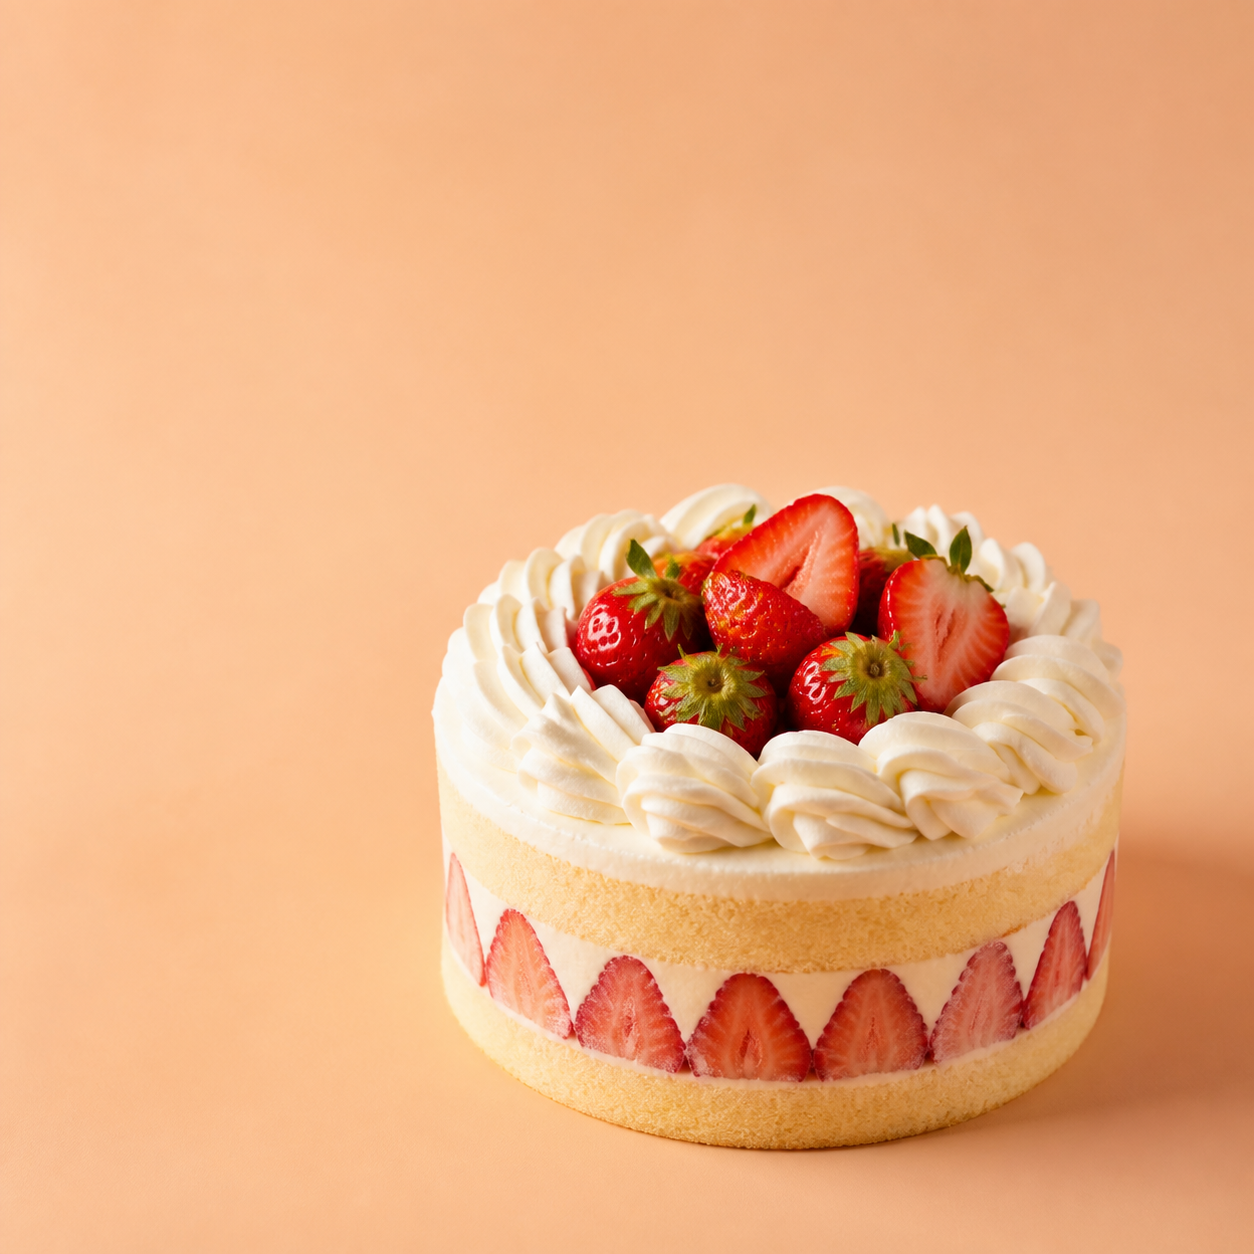
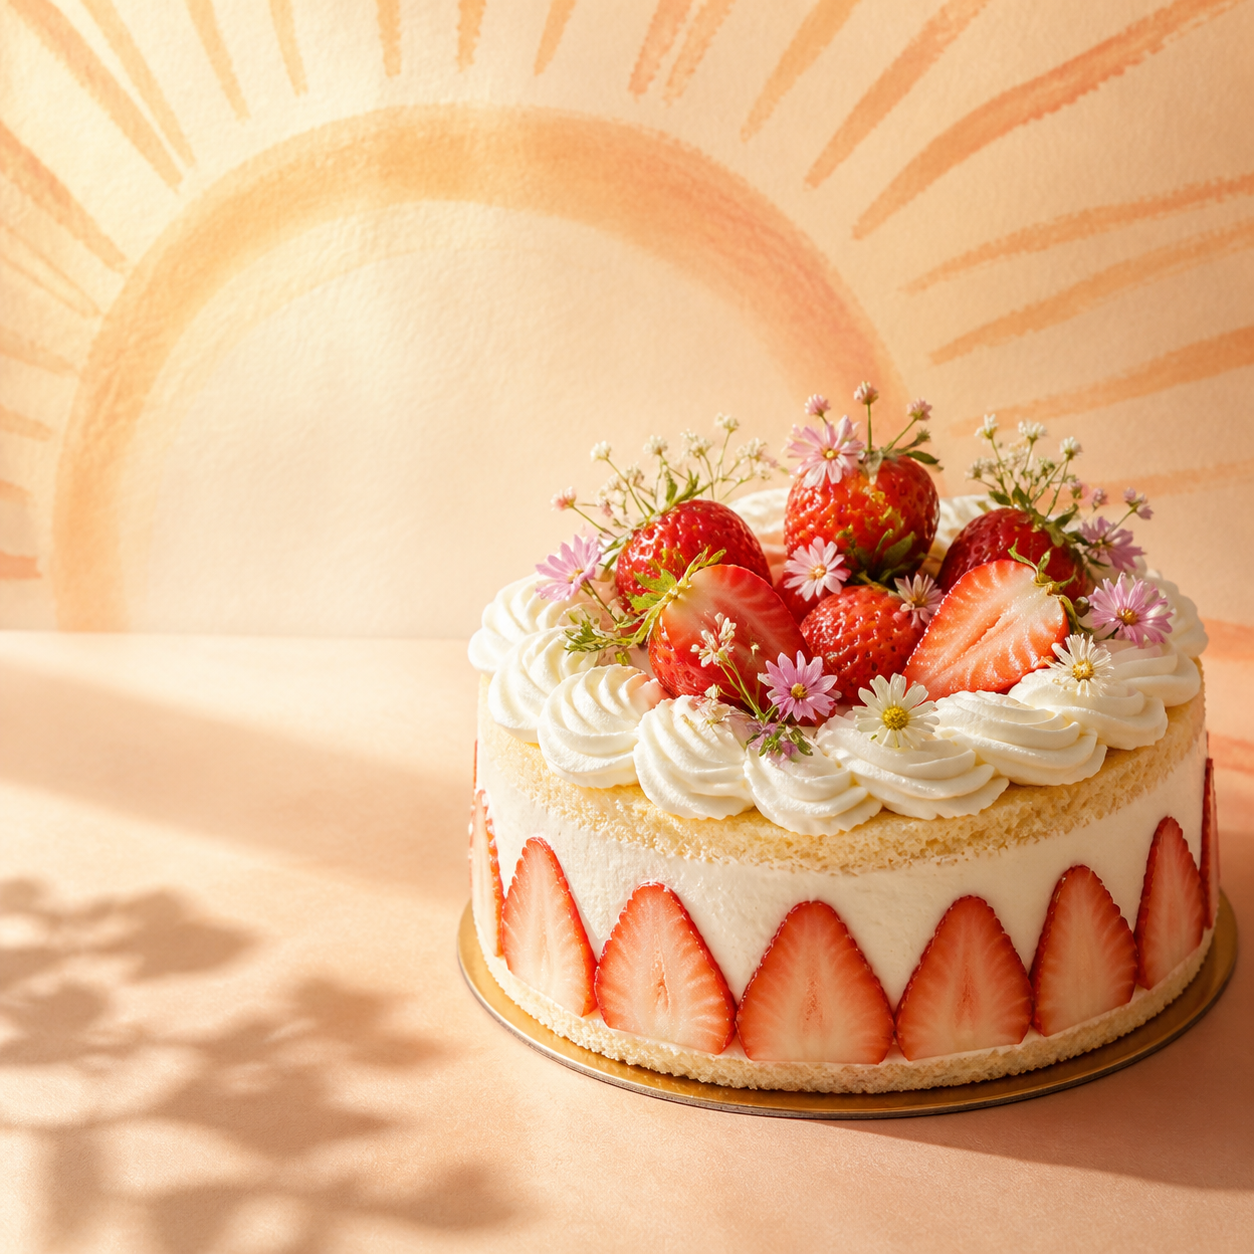
fix: polish hero and resilient catalogue imagery

diff --git a/frontend/js/catalog-fallback.js b/frontend/js/catalog-fallback.js
@@ -1,0 +1,15 @@
+// ponytail: this tiny read-only snapshot keeps the catalogue usable when the local Worker is stopped.
+export const fallbackProducts = [
+  { id: 'prod_strawberry_cloud', slug: 'strawberry-cloud', name: 'Strawberry Cloud Cake', description: 'Vanilla sponge, whipped cream and bright strawberries for a soft little celebration.', category: 'Cakes', price_cents: 14800, stock: 12 },
+  { id: 'prod_chocolate_fudge', slug: 'chocolate-fudge', name: 'Midnight Fudge Cake', description: 'A rich chocolate crumb with silky ganache and a gentle sea-salt finish.', category: 'Cakes', price_cents: 16800, stock: 9 },
+  { id: 'prod_lemon_tart', slug: 'lemon-tart', name: 'Lemon Meringue Tart', description: 'Buttery shortcrust, sharp lemon curd and a cloud of toasted meringue.', category: 'Cakes', price_cents: 12800, stock: 8 },
+  { id: 'prod_butter_croissant', slug: 'butter-croissant', name: 'Butter Croissant', description: 'Flaky, golden layers made with cultured butter and a slow overnight proof.', category: 'Pastries', price_cents: 900, stock: 30 },
+  { id: 'prod_strawberry_danish', slug: 'strawberry-danish', name: 'Strawberry Danish', description: 'Laminated pastry, vanilla cream and a jewel-bright strawberry centre.', category: 'Pastries', price_cents: 1200, stock: 22 },
+  { id: 'prod_cinnamon_roll', slug: 'cinnamon-roll', name: 'Cinnamon Morning Roll', description: 'Soft spiral dough with brown sugar, cinnamon and a little cream cheese glaze.', category: 'Pastries', price_cents: 1100, stock: 24 },
+  { id: 'prod_sea_salt_cookie', slug: 'sea-salt-cookie', name: 'Sea Salt Chocolate Cookie', description: 'Crisp edges, a soft middle and dark chocolate puddles with flaky sea salt.', category: 'Cookies', price_cents: 850, stock: 40 },
+  { id: 'prod_brown_butter_cookie', slug: 'brown-butter-cookie', name: 'Brown Butter Cookie', description: 'Toasty brown butter, roasted pecans and a warm vanilla crumb.', category: 'Cookies', price_cents: 850, stock: 35 },
+  { id: 'prod_pistachio_cookie', slug: 'pistachio-cookie', name: 'Pistachio Shortbread', description: 'Tender shortbread with roasted pistachio and a clean, buttery snap.', category: 'Cookies', price_cents: 950, stock: 28 },
+  { id: 'prod_truffle_box', slug: 'truffle-box', name: 'Petit Truffle Box', description: 'Six glossy chocolate truffles with ganache centres and tiny finishing salts.', category: 'Chocolates', price_cents: 2200, stock: 18 },
+  { id: 'prod_dark_bark', slug: 'dark-bark', name: 'Almond Dark Bark', description: 'Snappy dark chocolate scattered with toasted almonds and dried fruit.', category: 'Chocolates', price_cents: 1800, stock: 16 },
+  { id: 'prod_caramel_bonbon', slug: 'caramel-bonbon', name: 'Salted Caramel Bonbons', description: 'Glossy milk chocolate shells hiding a soft salted caramel centre.', category: 'Chocolates', price_cents: 2400, stock: 14 }
+]

diff --git a/frontend/index.html b/frontend/index.html
@@ -31,10 +31,10 @@
   <section class="pb-section" aria-labelledby="categories-title">
     <div class="pb-section-head"><div><span class="pb-kicker">Pick a mood</span><h2 id="categories-title" class="pb-display">Our categories</h2></div><p>Find something soft, crisp, gooey or deeply chocolatey. Every item is stocked in the learning API.</p></div>
     <div class="pb-category-grid">
-      <a class="pb-category" href="/products/?category=Cakes"><strong>Cakes</strong><img src="/assets/images/products/strawberry-cloud.png" alt="Strawberry cake"></a>
-      <a class="pb-category" href="/products/?category=Pastries"><strong>Pastries</strong><img src="/assets/images/products/butter-croissant.png" alt="Butter croissant"></a>
-      <a class="pb-category" href="/products/?category=Cookies"><strong>Cookies</strong><img src="/assets/images/products/sea-salt-cookie.png" alt="Chocolate cookie"></a>
-      <a class="pb-category" href="/products/?category=Chocolates"><strong>Chocolates</strong><img src="/assets/images/products/truffle-box.png" alt="Chocolate truffles"></a>
+      <a class="pb-category" href="/products/?category=Cakes"><strong>Cakes</strong><img src="/assets/images/products/category-cake-cutout.png" alt="Strawberry cake"></a>
+      <a class="pb-category" href="/products/?category=Pastries"><strong>Pastries</strong><img src="/assets/images/products/category-croissant-cutout.png" alt="Butter croissant"></a>
+      <a class="pb-category" href="/products/?category=Cookies"><strong>Cookies</strong><img src="/assets/images/products/category-cookie-cutout.png" alt="Chocolate cookie"></a>
+      <a class="pb-category" href="/products/?category=Chocolates"><strong>Chocolates</strong><img src="/assets/images/products/category-truffle-cutout.png" alt="Chocolate truffles"></a>
     </div>
   </section>
 

diff --git a/frontend/js/api.js b/frontend/js/api.js
@@ -1,15 +1,31 @@
+import { fallbackProducts } from './catalog-fallback.js'
+
 const cfg = window.APP_CONFIG || {}
 const API_BASE = String(cfg.API_BASE || '').replace(/\/$/, '')
+
+function localFallback(path) {
+  if (path === '/api/products') return { products: fallbackProducts }
+  const match = path.match(/^\/api\/products\/([^/]+)$/)
+  const product = match && fallbackProducts.find((item) => item.id === decodeURIComponent(match[1]))
+  return product ? { product } : null
+}
 
 export async function api(path, options = {}) {
   const headers = new Headers(options.headers || {})
   if (options.body && !headers.has('Content-Type')) headers.set('Content-Type', 'application/json')
 
-  const response = await fetch(`${API_BASE}${path}`, {
-    ...options,
-    headers,
-    credentials: 'include'
-  })
+  let response
+  try {
+    response = await fetch(`${API_BASE}${path}`, {
+      ...options,
+      headers,
+      credentials: 'include'
+    })
+  } catch (error) {
+    const fallback = localFallback(path)
+    if (fallback && (!options.method || options.method === 'GET')) return fallback
+    throw error
+  }
 
   let data = null
   try { data = await response.json() } catch { data = null }

diff --git a/frontend/styles.css b/frontend/styles.css
@@ -49,7 +49,8 @@ button, input, select { font: inherit; }
 .pb-category:nth-child(3) { background: #e78d4f; }
 .pb-category:nth-child(4) { background: #c9713e; }
 .pb-category strong { position: relative; z-index: 1; display: block; font-size: 1.2rem; }
-.pb-category img { position: absolute; right: -8px; bottom: -16px; width: 75%; height: 95%; object-fit: contain; mix-blend-mode: multiply; transform: rotate(-8deg); }
+.pb-category img { position: absolute; right: -2%; bottom: -10%; width: 72%; height: 104%; object-fit: contain; filter: drop-shadow(0 14px 12px rgba(81, 36, 14, .18)); transform: rotate(-6deg); transition: transform .2s ease, filter .2s ease; }
+.pb-category:hover img, .pb-category:focus-visible img { transform: rotate(-3deg) translateY(-4px) scale(1.04); filter: drop-shadow(0 18px 14px rgba(81, 36, 14, .22)); }
 .pb-about { display: grid; grid-template-columns: .8fr 1.2fr; align-items: center; gap: 2rem; padding: 2rem; border-radius: 1.7rem; background: var(--pb-peach); }
 .pb-about h2 { max-width: 340px; }
 .pb-about p { color: var(--pb-muted); line-height: 1.65; }
